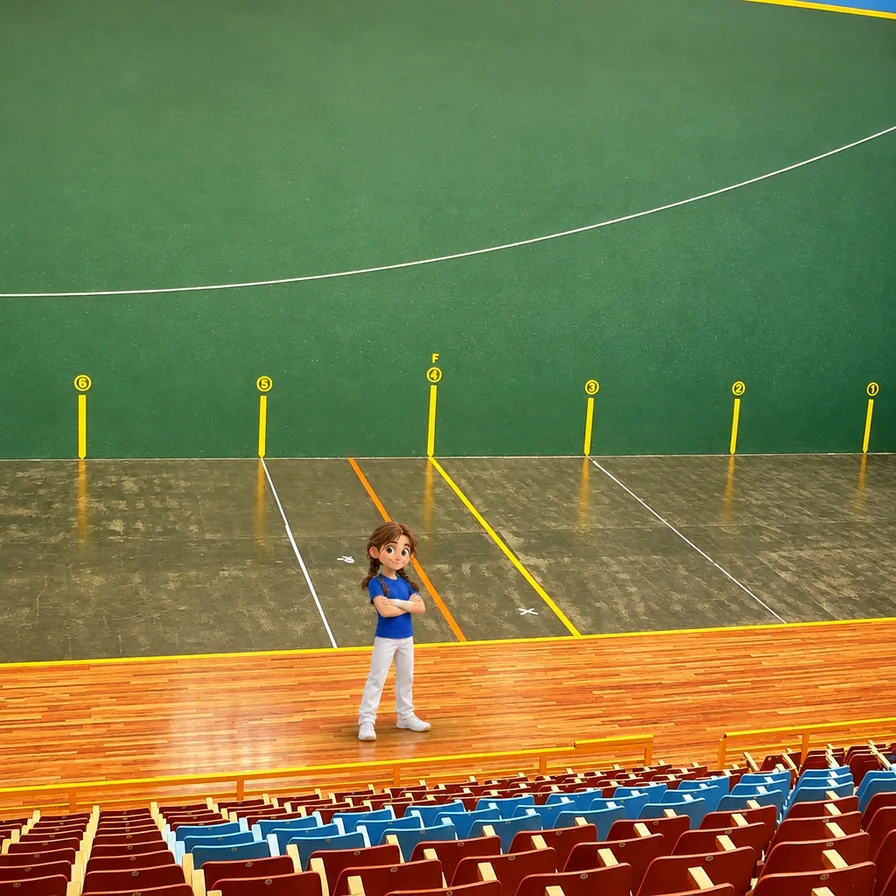
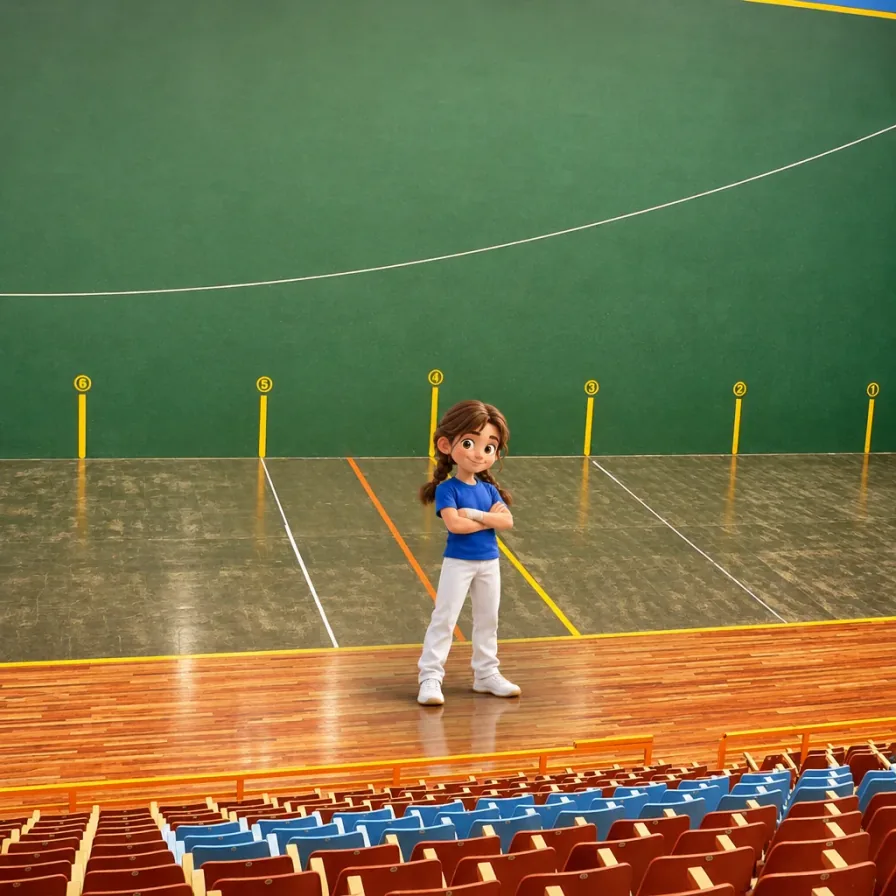
Cartas de pelota: Cuatro y medio con el pelotari grande
Claude-Session: https://claude.ai/code/session_01LP3syHb7415C8M5w3wgHaS

diff --git a/ARQUITECTURA.md b/ARQUITECTURA.md
@@ -1905,6 +1905,10 @@ cuando cambie la estructura. Las copias de seguridad son ramas de git `copia-AAA
     Esas versiones grandes quedan en `entrega/pelota-fondos-reales-17nov/alternativas`. Las dibujadas del 16 de noviembre,
     en `entrega/pelota-fondos-dibujados-16nov`. Las fotos del Navarra Arena que mandó el autor no tienen licencia libre y
     no se usan; la foto del Labrit que había es de la fachada, sin interior.
+    El autor, en la página de elecciones del 17 de noviembre: en el Cuatro y medio prefiere la alternativa, con el
+    pelotari más grande en el frontón de Ogueta (misma foto y licencia); en el Manomanista, la Gran Txapela y Parejas,
+    las de ahora. `cuatro.webp` pasa a ser la alternativa, a 896 px como las demás; la de antes queda en
+    `entrega/pelota-fondos-reales-17nov/sustituidas/cuatro-real.webp`.
 - **Pantalla del torneo sin texto apilado** (`torneoPanel`, `ligaHtml` y `comoFunciona` en `game/torneo.js`, noviembre de
   2026): cada dato, una sola vez. La jornada va solo en el VS («Jornada 1», sin «de 3»); la liguilla son solo las tablas,
   sin el rótulo «Liguilla · jornada 1 de 3», sin «Los dos primeros de cada grupo, a cuartos» (la raya fucsia ya marca los
